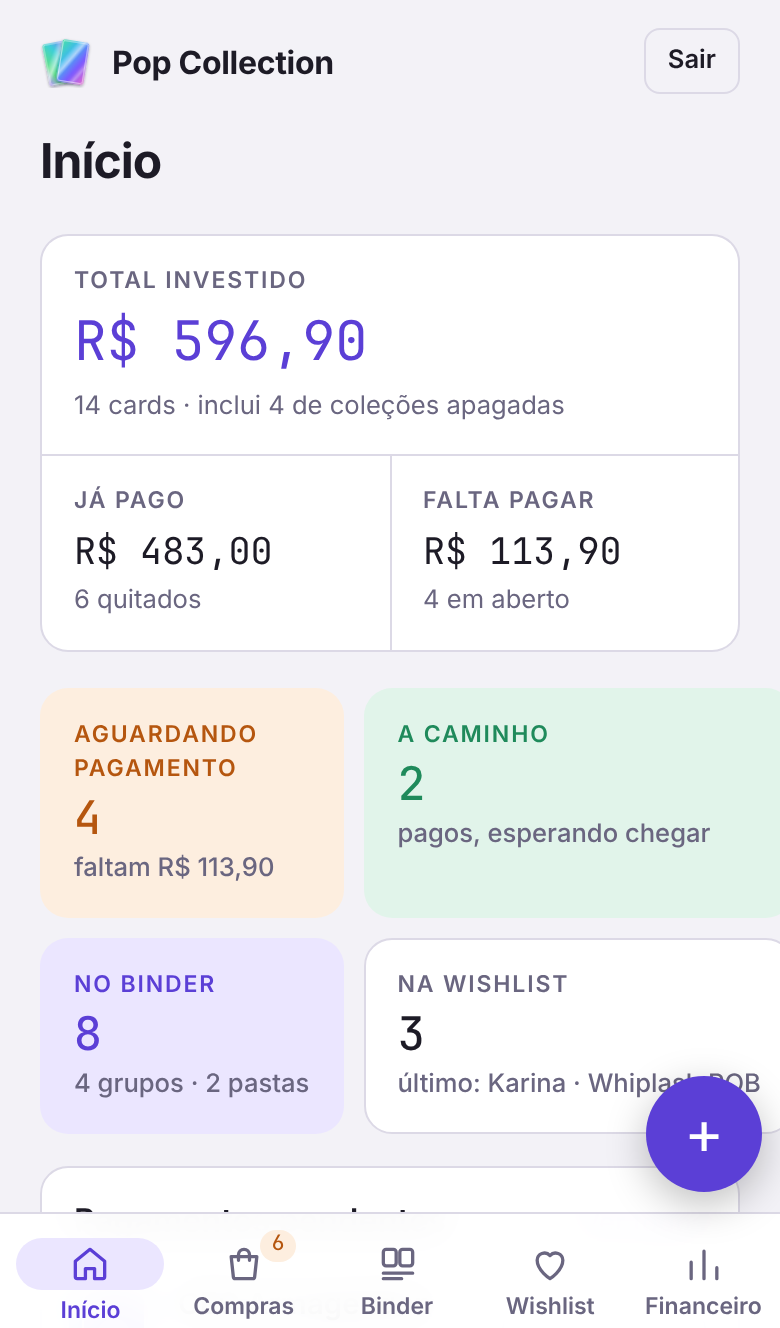
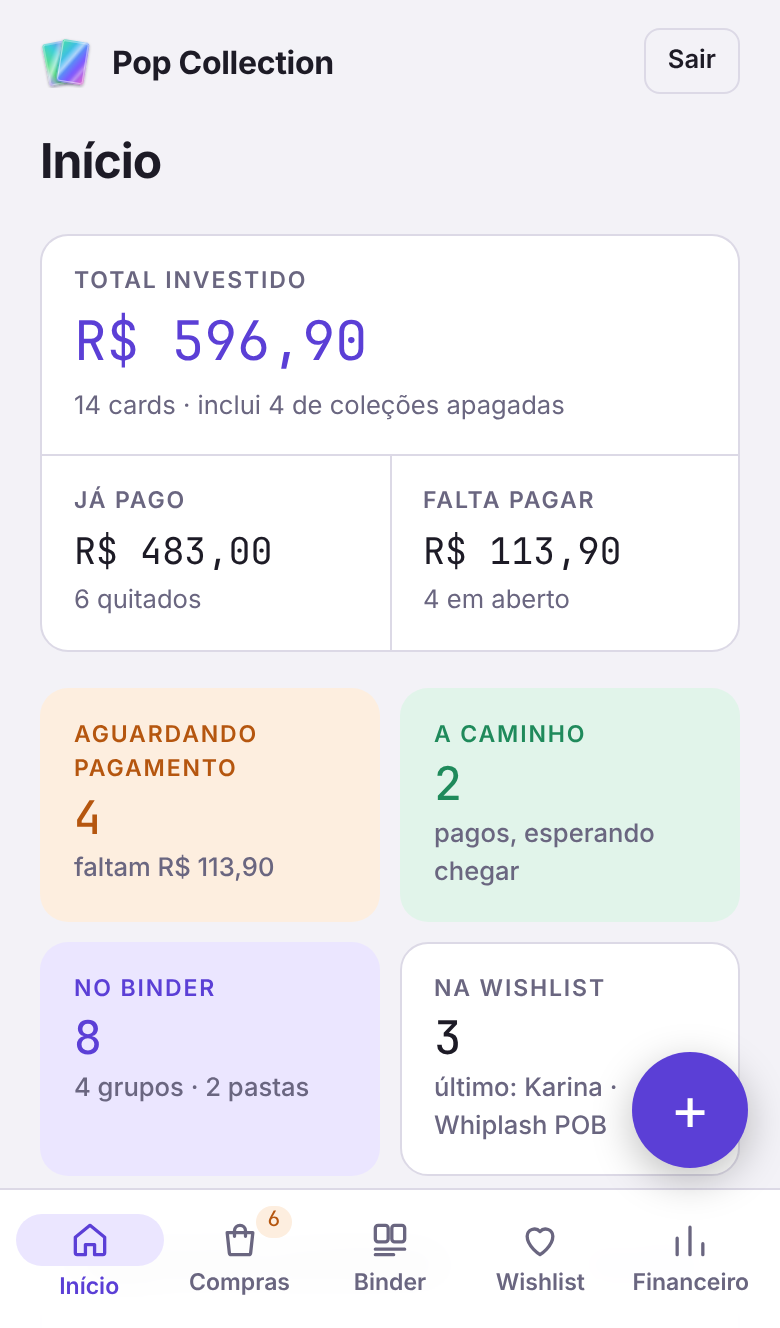
Corrige os quadros do Início que passavam da borda no celular
- Os quatro quadros ficam sempre do mesmo tamanho
- O texto comprido quebra a linha em vez de empurrar a tela
- Capturas do celular e imagem de compartilhamento refeitas

diff --git a/style.css b/style.css
@@ -90,7 +90,7 @@ h2 { font-family: var(--f-display); font-weight: 600; font-size: 1.15rem; margin
 /* Início */
 .home { display: flex; flex-direction: column; gap: 16px; }
 .tiles { display: grid; grid-template-columns: repeat(4, minmax(0, 1fr)); gap: 10px; }
-.tile { display: flex; flex-direction: column; align-items: flex-start; gap: 2px; text-align: left; background: var(--surface); border: 1px solid var(--line); border-radius: 14px; padding: 14px 16px; color: var(--fg); font-weight: 500; }
+.tile { display: flex; flex-direction: column; align-items: flex-start; gap: 2px; text-align: left; background: var(--surface); border: 1px solid var(--line); border-radius: 14px; padding: 14px 16px; color: var(--fg); font-weight: 500; min-width: 0; }
 .tile:hover { border-color: var(--accent); }
 .tile .label { font-size: 0.72rem; text-transform: uppercase; letter-spacing: 0.08em; color: var(--muted); font-weight: 600; }
 .tile .value { font-size: 1.7rem; line-height: 1.2; }
@@ -99,8 +99,8 @@ h2 { font-family: var(--f-display); font-weight: 600; font-size: 1.15rem; margin
 .tile.warn .value, .tile.warn .label { color: var(--warn); }
 .tile.info-t { background: var(--ok-soft); border-color: transparent; }
 .tile.info-t .value, .tile.info-t .label { color: var(--ok); }
-@media (max-width: 1100px) { .tiles { grid-template-columns: 1fr 1fr; } }
-@media (max-width: 600px) { .tile .value { font-size: 1.45rem; } .tile .sub { overflow: hidden; text-overflow: ellipsis; white-space: nowrap; max-width: 100%; } }
+@media (max-width: 1100px) { .tiles { grid-template-columns: repeat(2, minmax(0, 1fr)); } }
+@media (max-width: 600px) { .tile .value { font-size: 1.45rem; } .tile .sub { max-width: 100%; overflow-wrap: anywhere; } }
 .home-grid { display: grid; grid-template-columns: repeat(2, minmax(0, 1fr)); gap: 16px; align-items: start; }
 @media (max-width: 760px) { .home-grid { grid-template-columns: 1fr; } }
 .box { background: var(--surface); border: 1px solid var(--line); border-radius: 14px; padding: 14px 16px 16px; display: flex; flex-direction: column; gap: 10px; min-width: 0; }

diff --git a/index.html b/index.html
@@ -23,7 +23,7 @@
 <meta name="apple-mobile-web-app-title" content="Pop Collection">
 <link rel="preconnect" href="https://fonts.googleapis.com">
 <link rel="stylesheet" href="https://fonts.googleapis.com/css2?family=Bricolage+Grotesque:opsz,wght@12..96,500;12..96,700&family=Inter:wght@400;500;600&family=JetBrains+Mono:wght@500&display=swap">
-<link rel="stylesheet" href="style.css?v=19">
+<link rel="stylesheet" href="style.css?v=20">
 <style>html,body{margin:0}[hidden]{display:none!important}img{max-width:100%}</style>
 </head>
 <body>
@@ -390,7 +390,7 @@
 <div class="toast" id="toast" hidden></div>
 
 <script src="https://cdn.jsdelivr.net/npm/@supabase/supabase-js@2.45.4/dist/umd/supabase.js"></script>
-<script src="config.js?v=19"></script>
-<script src="app.js?v=19"></script>
+<script src="config.js?v=20"></script>
+<script src="app.js?v=20"></script>
 </body>
 </html>
